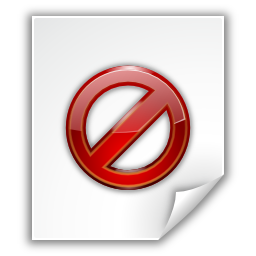
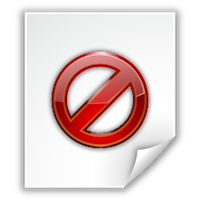
add public/system/* to gitignore and fix resizing issues

diff --git a/app/models/user.rb b/app/models/user.rb
@@ -3,7 +3,7 @@ class User < ApplicationRecord
   # :confirmable, :lockable, :timeoutable and :omniauthable
   devise :database_authenticatable, :registerable,
          :recoverable, :rememberable, :trackable, :validatable
-  has_attached_file :avatar, styles: { thumb: "200x200<" },
+  has_attached_file :avatar, styles: { thumb: "200x200>" },
       default_url: "/images/:style/missing.png"
 
   belongs_to :department

diff --git a/app/controllers/users_controller.rb b/app/controllers/users_controller.rb
@@ -25,7 +25,7 @@ class UsersController < ApplicationController
   # POST /users
   # POST /users.json
   def create
-    @user = User.new(user_params)
+    @user = User.create(user_params)
 
     respond_to do |format|
       if @user.save
